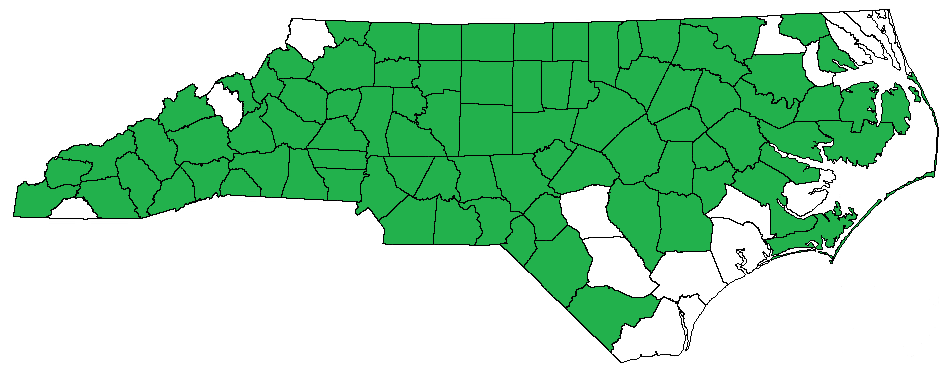
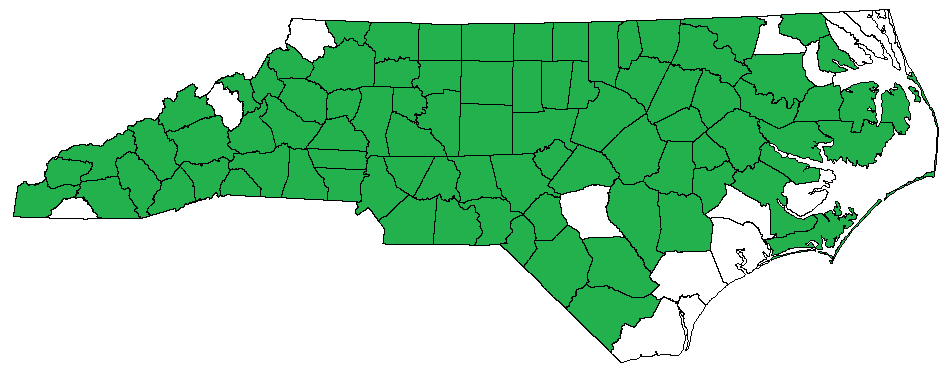
bbq 8/18/23

Changed region(s): [[0.6125, 0.6176, 0.7043, 0.7941]]

diff --git a/bbq/bbq-pics.html b/bbq/bbq-pics.html
@@ -172,6 +172,29 @@
 
 
 <br>
+<p><b>Bladen County</b></p>
+<p>Dove's Barbecue - Bladenboro</p>
+<p><a id="doves"></p>
+<center><img id="image269" img-src="https://s3.us-east-1.wasabisys.com/cwclaib-website/NC-State-Page/bbq/Doves, Bladenboro/20230818_165325.jpg" width="800"></img></center>
+<center><button type="button"
+        onclick="show( image269, this )" id="btnID">
+        Show Image
+</button></center>
+<center><img id="image270" img-src="https://s3.us-east-1.wasabisys.com/cwclaib-website/NC-State-Page/bbq/Doves, Bladenboro/20230818_171102.jpg" width="800"></img></center>
+<center><button type="button"
+        onclick="show( image270, this )" id="btnID">
+        Show Image
+</button></center>
+<center><img id="image271" img-src="https://s3.us-east-1.wasabisys.com/cwclaib-website/NC-State-Page/bbq/Doves, Bladenboro/20230818_173151.jpg" width="800"></img></center>
+<center><button type="button"
+        onclick="show( image271, this )" id="btnID">
+        Show Image
+</button></center>
+
+
+
+
+<br>
 <p><b>Buncombe County</b></p>
 <p>Buxton Hall Barbecue - Asheville</p>
 <p><a id="Buxton"></p>

diff --git a/bbq/index.html b/bbq/index.html
@@ -58,10 +58,10 @@
 <br>
 <center>
 	<h2>Current County Counter</h2>
-	<h3><span style="color:red">84</span> / 100</h3>
-	<h3>110 different in-state BBQ joints</h3>
+	<h3><span style="color:red">85</span> / 100</h3>
+	<h3>111 different in-state BBQ joints</h3>
 	<h3>8 annual BBQ events</h3>
-	<p>(last updated 8/14/2023)</p>
+	<p>(last updated 8/20/2023)</p>
 </center>
 <br>
 
@@ -101,6 +101,11 @@
 <ul>
 	<li>Bunn's Barbecue (<i><span style="color:red">closed June 2023 - may reopen</span></i>) - Windsor - 12/17/2022 - <a href="bbq-pics.html#Bunns">pictures</a></li>
 	<!-- https://www.wavy.com/news/north-carolina/famous-bunns-barbecue-in-bertie-county-has-closed/ -->
+</ul>
+<br>
+<p><b>Bladen County</b></p>
+<ul>
+	<li>Dove's Barbecue - Bladenboro - 8/18/2023 - <a href="bbq-pics.html#doves">pictures</a></li>
 </ul>
 <br>
 <p><b>Buncombe County</b></p>
